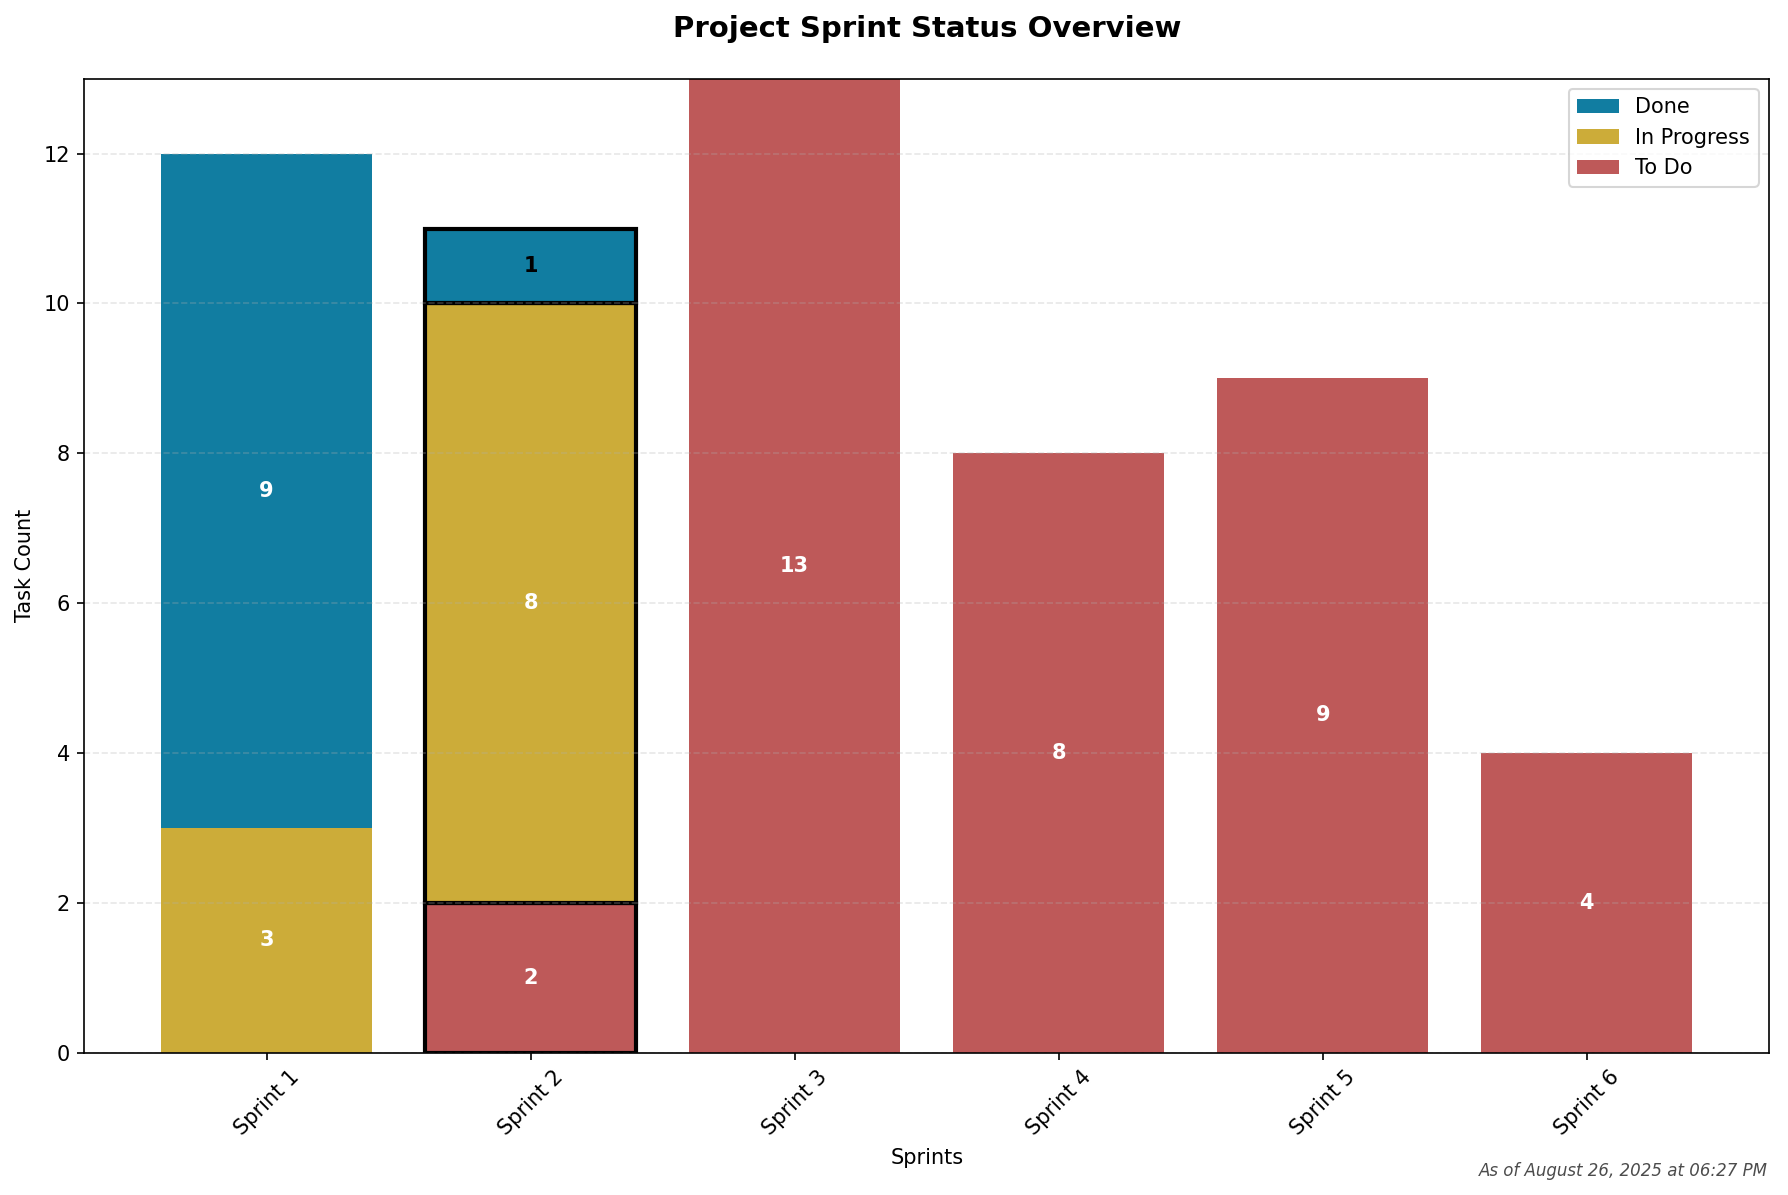
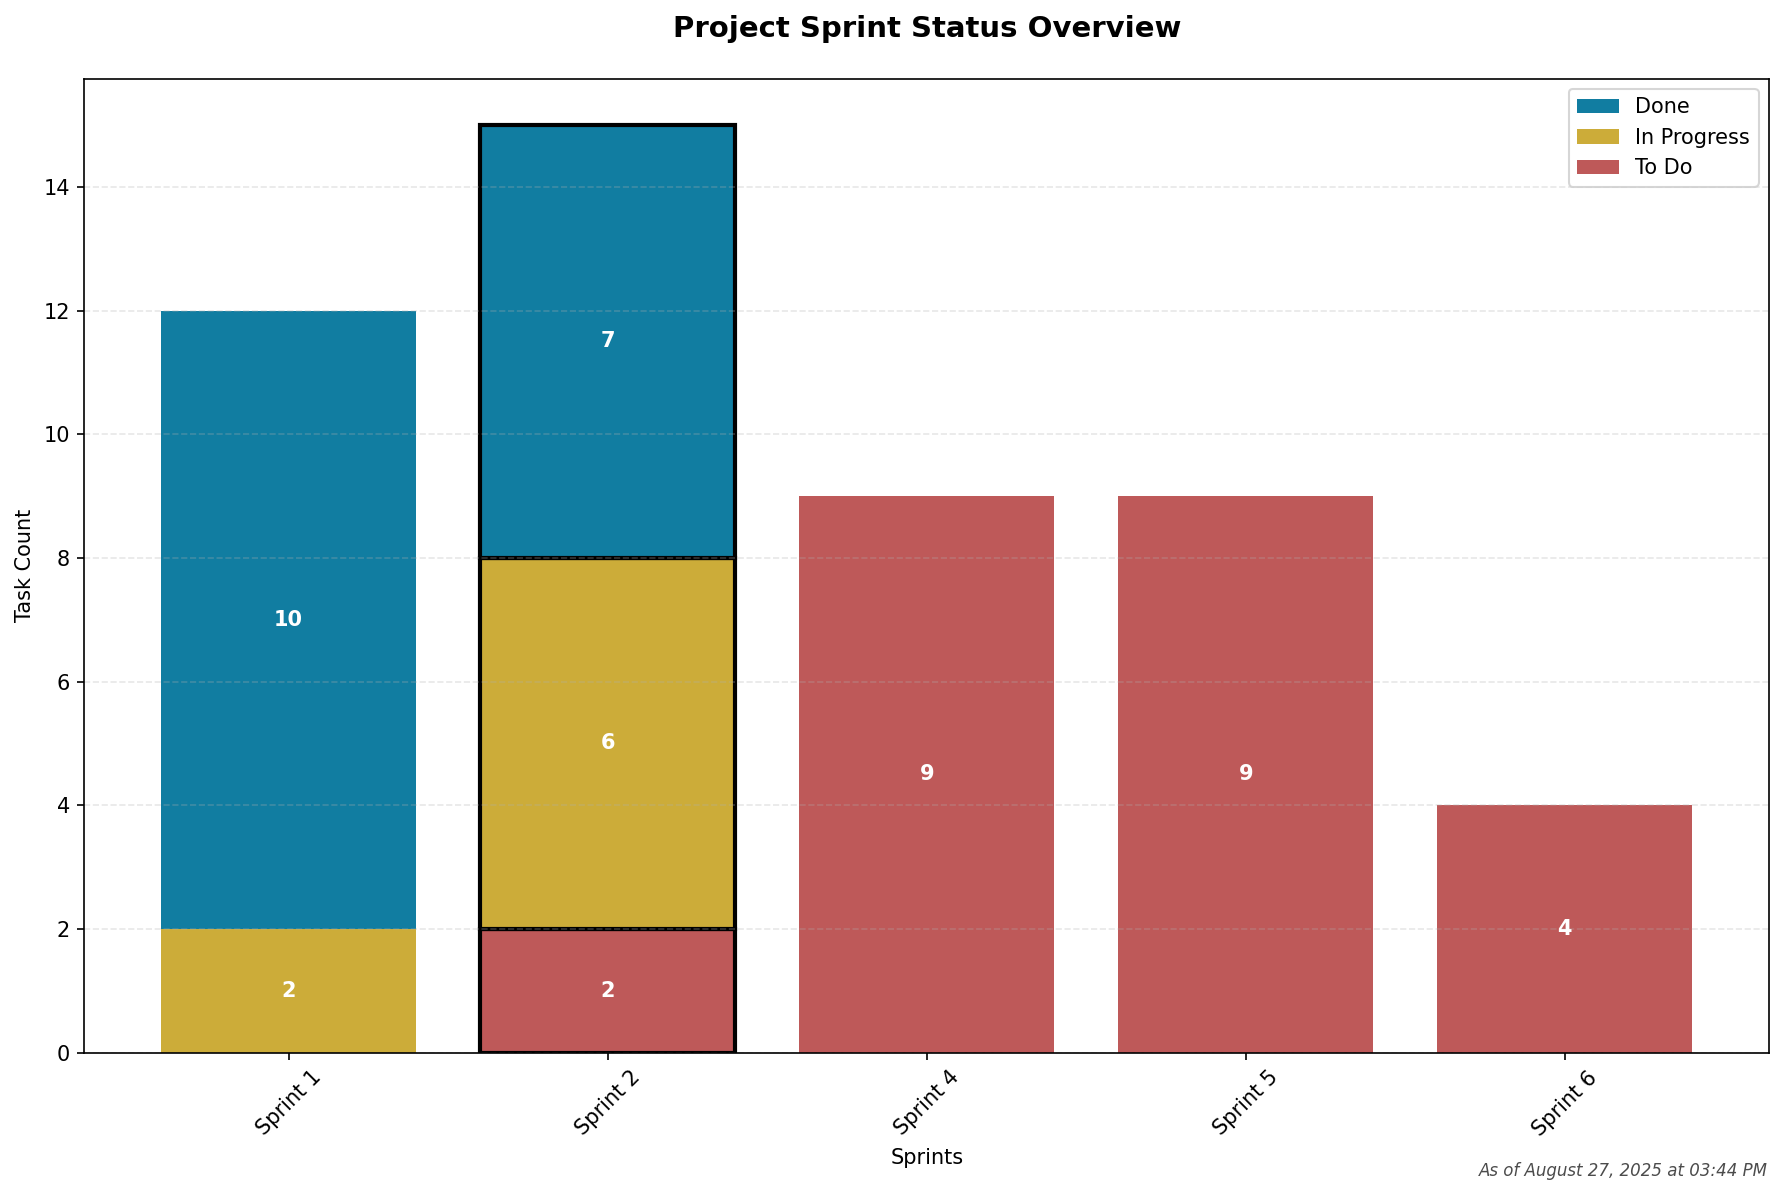
Update sprint progress and feature engineering details
Sprint status table and goals have been updated to reflect recent progress, including completion of Sprint 1, advancement of feature engineering tasks, and a hybrid approach for Sprints 2 and 3. Additional context and adjustments were added to weekly check-ins and sprint debriefs, and the sprint status chart image was updated.

diff --git a/project_tracker.md b/project_tracker.md
@@ -23,9 +23,9 @@
 
 | Sprint | Status         | % Complete | Notes                          |
 |--------|----------------|------------|--------------------------------|
-| 1      | 🔄 In Progress  | 80%       | Awaiting Jake Jones AWS Setup  |
-| 2      | 🔄 In Progress  | 70%       |                                |
-| 3      | ⏳ Not Started  | 0%        |                                |
+| 1      | ✅ Complete     | 95%       | AWS Setup pending with Jake Jones |
+| 2      | 🔄 In Progress  | 85%       | Hybrid Sprint 2/3 approach     |
+| 3      | 🔄 Started Early| 40%       | Feature engineering advanced    |
 | 4      | ⏳ Not Started  | 0%        |                                |
 | 5      | ⏳ Not Started  | 0%        |                                |
 | 6      | ⏳ Not Started  | 0%        |                                |
@@ -64,7 +64,7 @@
 - [x] Create, deploy, and share project tracker
 - [x] Set up dev environment
     - [x] Terminal, Python + packages, VSCode, Jupyter
-- [~] Set up repo, version control, and initial folder structure 
+- [x] Set up repo, version control, and initial folder structure 
 - [x] Explore different feature store options (Manually created S3 or Sagemaker)
 
 ### Weekly Check-In *(Aug 7 & Aug 15)*
@@ -84,63 +84,73 @@
 
 ### Sprint Goals
 - [~] Define data sources and access method (AWS Glue + PySpark)
-    - [ ] Develop master config and python class for Spark session and DB connections
-- [~] Define SQL query/joins for main data ingestion
+    
+- [x] Define SQL query/joins for main data ingestion
     - [x] Customer + Account Data
-    - [~] Transaction Data
+    - [~] Transaction Data (80% complete - debugging balance discrepancies)
     - [ ] Interaction Data
-    - [~] Draft feature store schema
-- [~] Develop a DataIngestionService() in PySpark  
-    - [~] Join/Ingest raw tables into feature store staging and perform quality checks
-    - [~] Implement point-in-time joins for first feature group
-- [~] Plan for high-impact data to be used in churn definition.
+    - [x] Join/Ingest raw tables into feature store staging and perform quality checks
+    - [x] Implement point-in-time joins for first feature group
+- [x] Plan for high-impact data to be used in churn definition
+- [x] Complete demographic/account feature engineering (advanced from Sprint 3)
+- [x] Meet with Jake Jones to align on system needs, pipeline endpoints, and timeline
+- [~] Begin transaction feature engineering development 
+    - [~] Add time-window aggregations (e.g. 30/60/90 day summaries)
+- [~] Draft feature store schema (~200 features Customer+Acct+Transaction)
+    - [~] Generate customer snapshots
+- [ ] Validate data output with sample customers (100)
 
 ### Weekly Check-In *(Aug 20 & Aug 28)*
-- **Progress Summary:**  
-- **Blockers / Risks Identified:**  
-- **Adjustments Made:**  
+- **Progress Summary:** Completed customer/demographic data ingestion and advanced feature engineering. 80% complete on transaction data ingestion. Sprint 2/3 hybrid approach proving effective.
+- **Blockers / Risks Identified:** Minor balance discrepancies in transaction data, AWS Glue setup coordination
+- **Adjustments Made:** Advanced feature engineering while data structure was fresh, reshuffled Sprint 2/3 tasks for better flow.
 
 ### End of Sprint Debrief
 - **Completed Work:**  
 - **Work Pushed to Next Sprint:**  
-- **Key Learnings:**  
-- **Next Sprint Priorities:**  
+- **Key Learnings:**  Early feature engineering while data structure was fresh proved highly effective
+- **Next Sprint Priorities:**  Focus on PySpark conversion and production pipeline development
 
 ---
 
-## ⏳ Sprint 3: Feature Engineering – Feature Engineering *(Sep 1-Sep 14)*
+## 🔄 Sprint 3: Feature Engineering & Pipeline Development *(Sep 1-Sep 14)*
 
 ### Sprint Goals
-- [ ] Develop FeatureEngineeringService()
-    - [ ] _get_eligible_customers() (minumum tenure, only data up until churn event, etc)
-    - [ ] Generate customer snapshots
-    - [ ] Add time-window aggregations (e.g. 30/60/90 day summaries) 
+- [x] Advanced feature engineering (completed early in Sprint 2)
+    - [x] Derive demographic and account features (156 features)
+    - [~] Add time-window aggregations
 - [ ] Define & document input-output data contract (schema enforcement and partition strategy)
     - [ ] Start Feature Store data dictionary documentation (markdown >> Confluence)
-- [ ] Choose feature store snapshot frequency
+- [ ] Convert SQL work to PySpark + AWS Glue for automated ETL
+    - [ ] Develop master config and python class for Spark session and DB connections
+    - [ ] Choose feature store snapshot frequency
+    - [ ] Implement initial historical backfill operation
+- [ ] Build automated data validation checks and logging with broader population (beyond 100-person samples)
 - [ ] Draft churn definition with input from stakeholders/domain experts
 - [ ] Develop generate_churn_label() function using lookahead window
+    - [ ] _get_eligible_customers() (minimum tenure, only data up until churn event, etc)
     - [ ] Create reference document on decision-making and functionality
-- [ ] Validate data output with sample customers 
-- [ ] Feature store creation (with historical backfill for initial setup)
+- [ ] Feature store creation in S3 (with historical backfill for initial setup)
 - [ ] Exploratory Data Analysis with data distribution and correlation focus
+
 
 ### Weekly Check-In *(Sep 5 & Sep 12)*
 - **Progress Summary:**  
 - **Blockers / Risks Identified:**  
-- **Adjustments Made:**  
+- **Adjustments Made:** Sprint 2/3 hybrid approach - feature engineering advanced early to maintain momentum
 
 ### End of Sprint Debrief
 - **Completed Work:**  
 - **Work Pushed to Next Sprint:**  
-- **Key Learnings:**  
-- **Next Sprint Priorities:**  
+- **Key Learnings:** 
+- **Next Sprint Priorities:** 
 
 ---
 
-## ⏳ Sprint 4: Model Development – Model Development *(Sep 15–Sep 28)*
+## ⏳ Sprint 4: Model Development *(Sep 15–Sep 28)*
 
 ### Sprint Goals
+- [ ] Address feature complexity and potential dimensionality reduction needs
 - [ ] Set up model training and evaluation pipeline
     - [ ] Develop ModelTrainingService()
         - [ ] Automate hyperparameter selection
